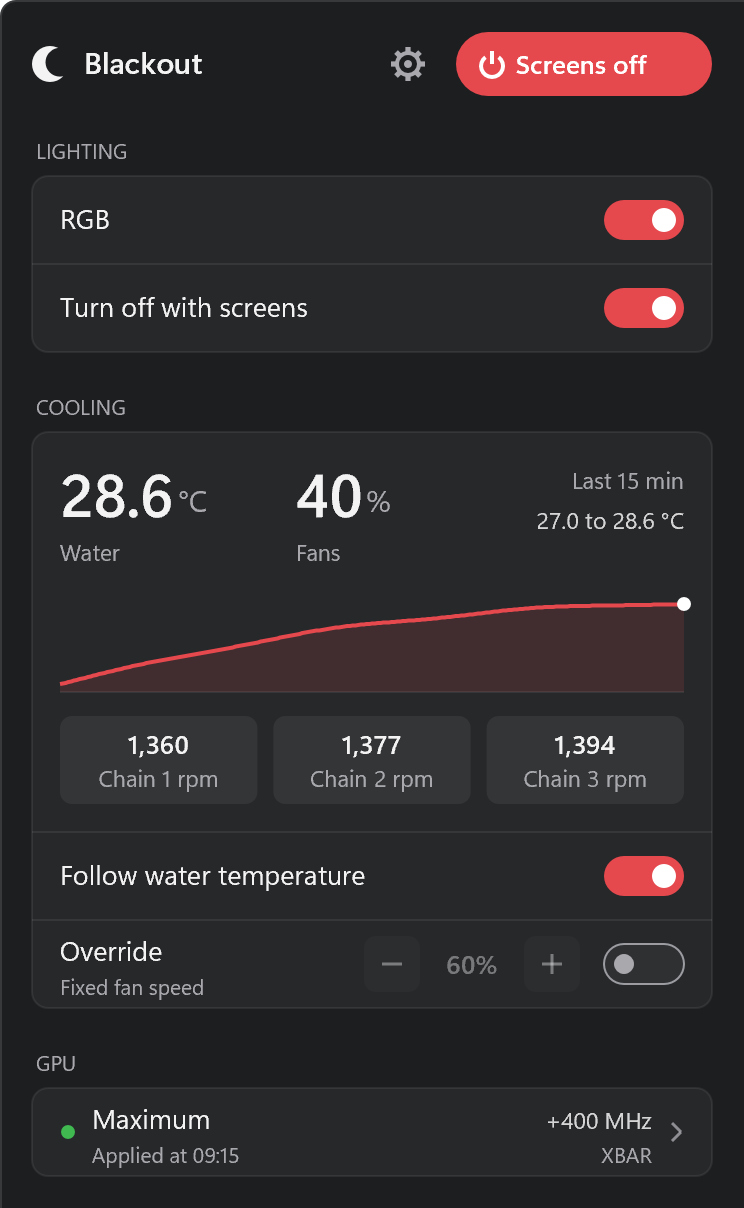
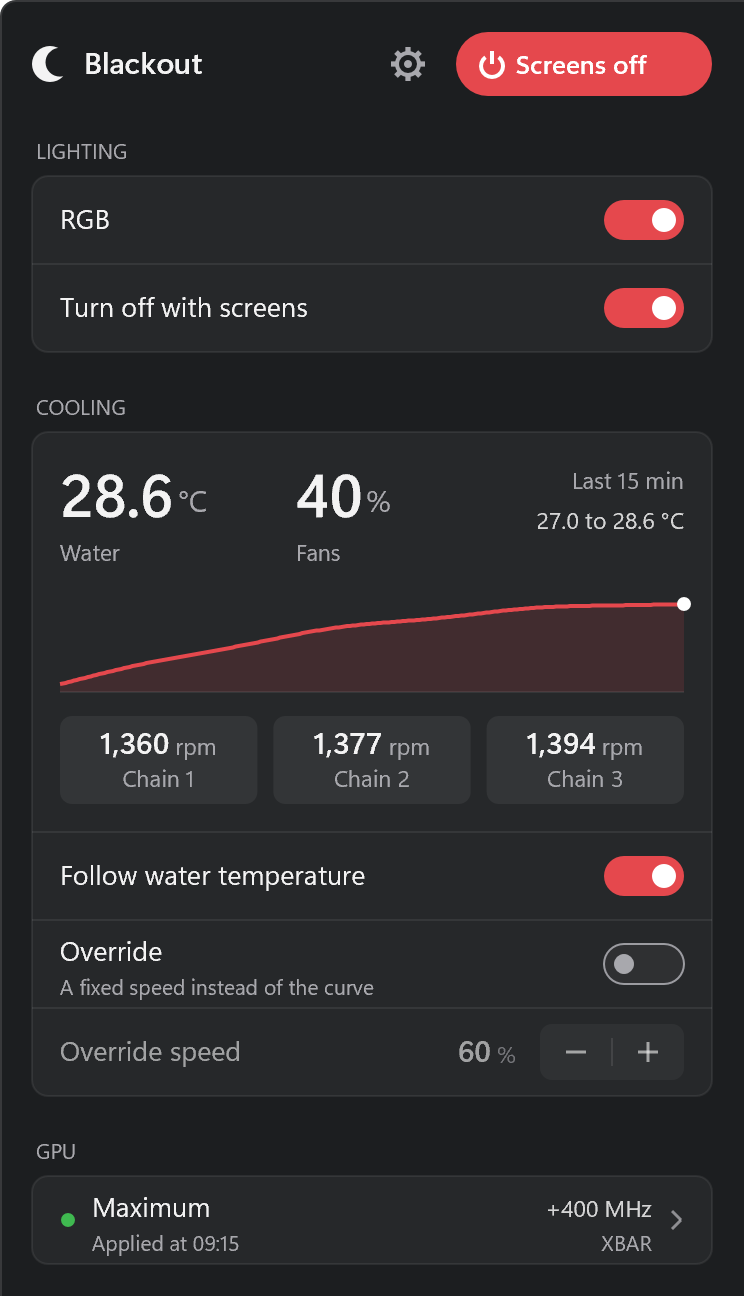
Steppers: one joined minus/plus control, the value typeset with its label
Value, unit and label are set together and the control sits apart from them:
under its chip on the GPU tab (three equal chips), at the end of the row on
the Fans tab and the main view (Override is two rows now).

diff --git a/src/panel.c b/src/panel.c
@@ -300,19 +300,21 @@ static void toggleRow(LPCWSTR label, LPCWSTR hint, float x, float y, float w, in
     if (hint) text(hint, F_TINY, rc(x + INSET, y + 26, w - 80, 14), dim(), a, DWRITE_TEXT_ALIGNMENT_LEADING);
     toggle(x + w - INSET - 40, y + 12, on, hover == id, enabled);
 }
-// One [-] or [+] of a stepper, 28 px square.
-static void stepButton(int id, float x, float y, BOOL plus, BOOL can, float a) {
-    D2D1_RECT_F r = rc(x, y, 28, 28);
-    if (can) hit[id] = r;
-    fillRound(r, 6, tone(), (!can ? 0.03f : hover == id ? 0.12f : 0.06f) * a);
-    line(x + 9, y + 14, x + 19, y + 14, ink(), (can ? 1 : 0.3f) * a, 1.5f);
-    if (plus) line(x + 14, y + 9, x + 14, y + 19, ink(), (can ? 1 : 0.3f) * a, 1.5f);
-}
-// [-] value [+] in a row at y, ending at right. a dims the whole control.
-static void stepper(LPCWSTR value, float right, float y, int down, int up, BOOL canDown, BOOL canUp, float a) {
-    stepButton(down, right - 108, y + 8, FALSE, canDown, a);
-    stepButton(up, right - 28, y + 8, TRUE, canUp, a);
-    text(value, F_BOLD, rc(right - 80, y + 13, 52, 18), ink(), a, DWRITE_TEXT_ALIGNMENT_CENTER);
+// A stepper's two buttons as one control, 28 px high: [ - | + ]. The value is never between them; it is shown with its
+// label, and this sits at the end of the row or under the chip. Each half is a target of at least 36 x 28.
+static void stepper(int down, int up, float x, float y, float w, BOOL canDown, BOOL canUp, float a) {
+    float half = w / 2;
+    fillRound(rc(x, y, w, 28), 6, tone(), 0.07f * a);
+    for (int i = 0; i < 2; i++) {
+        int id = i ? up : down;
+        BOOL can = i ? canUp : canDown;
+        float hx = x + i * half, cx = hx + half / 2;
+        if (can) hit[id] = rc(hx, y, half, 28);
+        if (can && hover == id) fillRound(rc(hx + 2, y + 2, half - 4, 24), 4, tone(), 0.10f * a);
+        line(cx - 5, y + 14, cx + 5, y + 14, ink(), (can ? 1 : 0.3f) * a, 1.5f);
+        if (i) line(cx, y + 9, cx, y + 19, ink(), (can ? 1 : 0.3f) * a, 1.5f);
+    }
+    line(x + half, y + 7, x + half, y + 21, tone(), 0.16f * a, 1);
 }
 // A button with a word on it, 28 px high. kind: 0 plain, 1 the main action of the view, 2 asks to confirm,
 // 3 quiet (small and dim: for what is rarely needed).
@@ -326,17 +328,30 @@ static void button(int id, LPCWSTR label, float x, float y, float w, int kind, B
     text(label, kind == 3 ? F_SMALL : F_BOLD, rc(x, y + (kind == 3 ? 6 : 5), w, 18), kind == 1 && can ? 0xFFFFFF : kind == 2 ? warn() : kind == 3 && !hot ? dim() : ink(),
          can ? 1 : 0.35f, DWRITE_TEXT_ALIGNMENT_CENTER);
 }
-// A reading: the value in bold over what it is. Fan speeds on Main, a profile's numbers on the GPU tab.
-static void chip(LPCWSTR value, LPCWSTR label, float x, float y, float w) {
+// A reading: the number with its unit small beside it, and what it is underneath. Fan speeds on Main, a profile's
+// numbers on the GPU tab. Numbers that are the point of a chip or a stepper row are set in F_BRAND, a size above
+// their labels, so the eye lands on the value first.
+static void chip(LPCWSTR value, LPCWSTR unit, LPCWSTR label, float x, float y, float w) {
+    float vw = measure(value, F_BRAND), uw = unit ? measure(unit, F_SMALL) + 3 : 0, at = x + (w - vw - uw) / 2;
     fillRound(rc(x, y, w, 44), 6, tone(), 0.06f);
-    text(value, F_BOLD, rc(x + 4, y + 5, w - 8, 18), ink(), 1, DWRITE_TEXT_ALIGNMENT_CENTER);
+    if (vw + uw > w - 8) {
+        text(value, F_BRAND, rc(x + 4, y + 3, w - 8, 20), ink(), 1, DWRITE_TEXT_ALIGNMENT_CENTER);
+    } else {
+        text(value, F_BRAND, rc(at, y + 3, vw + 2, 20), ink(), 1, DWRITE_TEXT_ALIGNMENT_LEADING);
+        if (unit) text(unit, F_SMALL, rc(at + vw + 3, y + 7, uw, 16), dim(), 1, DWRITE_TEXT_ALIGNMENT_LEADING);
+    }
     text(label, F_SMALL, rc(x + 4, y + 23, w - 8, 16), dim(), 1, DWRITE_TEXT_ALIGNMENT_CENTER);
 }
-// Label and hint on the left, [-] value [+] on the right.
-static void stepperRow(LPCWSTR label, LPCWSTR hint, LPCWSTR value, float x, float y, float w, int down, int up, BOOL canDown, BOOL canUp) {
-    text(label, F_ROW, rc(x + INSET, y + 6, w - 160, 22), ink(), 1, DWRITE_TEXT_ALIGNMENT_LEADING);
-    text(hint, F_TINY, rc(x + INSET, y + 26, w - 160, 14), dim(), 1, DWRITE_TEXT_ALIGNMENT_LEADING);
-    stepper(value, x + w - INSET, y, down, up, canDown, canUp, 1);
+// A setting that is stepped: label and hint on the left, then the value with its unit, then [ - | + ] at the end of
+// the row. One row holds one control. a dims the row.
+static void stepperRow(LPCWSTR label, LPCWSTR hint, LPCWSTR value, LPCWSTR unit, float x, float y, float w, int down, int up, BOOL canDown, BOOL canUp, float a) {
+    float px = x + w - INSET - 72, uw = measure(unit, F_SMALL), vw = measure(value, F_BRAND) + 2, vx = px - 12 - uw - 3 - vw;
+    float lw = vx - 10 - x - INSET;
+    text(label, F_ROW, rc(x + INSET, y + (hint ? 6 : 12), lw, 22), ink(), a, DWRITE_TEXT_ALIGNMENT_LEADING);
+    if (hint) text(hint, F_TINY, rc(x + INSET, y + 26, lw, 14), dim(), a, DWRITE_TEXT_ALIGNMENT_LEADING);
+    text(value, F_BRAND, rc(vx, y + 11, vw, 20), ink(), a, DWRITE_TEXT_ALIGNMENT_TRAILING);
+    text(unit, F_SMALL, rc(px - 12 - uw, y + 15, uw + 2, 16), dim(), a, DWRITE_TEXT_ALIGNMENT_LEADING);
+    stepper(down, up, px, y + 8, 72, canDown, canUp, a);
 }
 
 // ---- Layout ----
@@ -347,7 +362,7 @@ static int capped(int d) { return d > fanMax ? fanMax : d; }
 
 static float mainHeight(void) {
     float h = PAD + 32 + SECT + LABEL + 2 * ROW;
-    if (hasCurve) h += SECT + LABEL + INSET + 56 + GAP + 48 + GAP + 44 + INSET + 2 * ROW;
+    if (hasCurve) h += SECT + LABEL + INSET + 56 + GAP + 48 + GAP + 44 + INSET + 3 * ROW;
     else if (fanWhy >= 2) h += GAP + ROW; // notice: the fan curve is set up but can't run
     if (hasGpu()) h += SECT + LABEL + ROW;
     return h + PAD;
@@ -511,7 +526,7 @@ static void paintMain(float x, float y, float w) {
     y += SECT;
 
     section(L"COOLING", x, &y, w);
-    card(x, y, w, INSET + 56 + GAP + 48 + GAP + 44 + INSET + 2 * ROW);
+    card(x, y, w, INSET + 56 + GAP + 48 + GAP + 44 + INSET + 3 * ROW);
     float cy = y + INSET;
     // Two big readings on the left, the graph's range on the right.
     if (coolant < 0) lstrcpyW(s, L"--");
@@ -569,9 +584,7 @@ static void paintMain(float x, float y, float w) {
         else if (fanRpm[i] > 0 && fanRpm[i] < 1000) wsprintfW(rpm, L"%d", fanRpm[i]);
         else lstrcpyW(rpm, L"-");
         chainName(i, name);
-        wsprintfW(s, L"%s rpm", name);
-        // A long name keeps its own words: the number above it is plainly a speed.
-        chip(rpm, measure(s, F_SMALL) > cw - 8 ? name : s, ix + i * (cw + 8), cy, cw);
+        chip(rpm, rpm[0] == L'-' ? NULL : L"rpm", name, ix + i * (cw + 8), cy, cw);
     }
     cy += 44 + INSET;
     divider(x, cy, w);
@@ -579,19 +592,13 @@ static void paintMain(float x, float y, float w) {
     // Override: a fixed speed instead of the curve. Works while the curve is on; the speed can be set before switching on.
     cy += ROW;
     divider(x, cy, w);
-    float a = curveOn ? 1 : 0.4f, right = x + w - INSET - 40 - GAP;
-    if (curveOn) {
-        hit[H_OVR] = rc(x, cy, w, ROW);
-        hoverFill(H_OVR, hit[H_OVR]);
-    }
-    text(L"Override", F_ROW, rc(ix, cy + 6, right - 108 - ix - 8, 22), ink(), a, DWRITE_TEXT_ALIGNMENT_LEADING);
-    text(ov == 2 ? L"Paused while hot" : L"Fixed fan speed", F_TINY, rc(ix, cy + 26, right - 108 - ix - 8, 14), ov == 2 ? warn() : dim(), a,
-         DWRITE_TEXT_ALIGNMENT_LEADING);
-    wsprintfW(s, L"%d%%", ovDuty);
-    stepper(s, right, cy, H_OVR_DN, H_OVR_UP, curveOn && ovDuty > 20, curveOn && ovDuty < 100, ovOn && curveOn ? 1 : 0.4f);
-    // A button at the end of the range still takes the click, so it never falls through to the switch.
-    if (curveOn) hit[H_OVR_DN] = rc(right - 108, cy + 8, 28, 28), hit[H_OVR_UP] = rc(right - 28, cy + 8, 28, 28);
-    toggle(x + w - INSET - 40, cy + 12, ovOn, hover == H_OVR, curveOn);
+    toggleRow(L"Override", ov == 2 ? L"" : L"A fixed speed instead of the curve", x, cy, w, H_OVR, ovOn, curveOn);
+    if (ov == 2) text(L"Paused while hot", F_TINY, rc(ix, cy + 26, iw - 80, 14), warn(), 1, DWRITE_TEXT_ALIGNMENT_LEADING);
+    // Its speed on a row of its own: one row, one control.
+    cy += ROW;
+    divider(x, cy, w);
+    wsprintfW(s, L"%d", ovDuty);
+    stepperRow(L"Override speed", NULL, s, L"%", x, cy, w, H_OVR_DN, H_OVR_UP, curveOn && ovDuty > 20, curveOn && ovDuty < 100, !curveOn ? 0.4f : ovOn ? 1 : 0.6f);
     paintMainGpu(x, cy + ROW + SECT, w);
 }
 
@@ -663,12 +670,12 @@ static void paintFans(float x, float y, float w) {
          rc(ix, cy, iw, 18), dim(), 1, DWRITE_TEXT_ALIGNMENT_LEADING);
     cy += 18 + INSET;
     divider(x, cy, w);
-    wsprintfW(s, L"%d%%", fanMax);
-    stepperRow(L"Max fan speed", L"Upper limit for every fan", s, x, cy, w, H_MAX_DN, H_MAX_UP, fanMax > 30, fanMax < 100);
+    wsprintfW(s, L"%d", fanMax);
+    stepperRow(L"Max fan speed", L"Upper limit for every fan", s, L"%", x, cy, w, H_MAX_DN, H_MAX_UP, fanMax > 30, fanMax < 100, 1);
     cy += ROW;
     divider(x, cy, w);
-    wsprintfW(s, L"%d \x00B0" L"C", fanHyst);
-    stepperRow(L"Slow down after", srcDev ? L"It must be this much cooler first" : L"Water must be this much cooler first", s, x, cy, w, H_HYS_DN, H_HYS_UP, fanHyst > 0, fanHyst < 5);
+    wsprintfW(s, L"%d", fanHyst);
+    stepperRow(L"Slow down after", srcDev ? L"It must be this much cooler first" : L"Water must be this much cooler first", s, L"\x00B0" L"C", x, cy, w, H_HYS_DN, H_HYS_UP, fanHyst > 0, fanHyst < 5, 1);
     cy += ROW;
     divider(x, cy, w);
     BOOL edited = curveEdited();
@@ -878,9 +885,11 @@ static void paintGpu(float x, float y, float w) {
     if (keepArmed && !empty) button(H_GPU_KEEP, L"Replace it?", x + w - INSET - 106, y + 8, 106, 2, !gpuWait);
     else button(H_GPU_KEEP, L"Read from card", x + w - INSET - 106, y + 8, 106, empty ? 1 : 3, !gpuWait);
 
-    // The chips under the chart: the profile's power limit and memory offset, and the XBAR stepper.
+    // Under the chart: three equal chips (power limit, memory offset, XBAR offset), and under a chip that can be
+    // stepped its [ - | + ]. Today that is XBAR, with a note beside it on why only this one has buttons; the other
+    // two take the same control under their chips when they become adjustable.
     int chips = (empty ? 0 : 2) + (xbarCount > 0);
-    float chipsY = bottom - ROW - INSET - 44, xw = 132, pw3 = xbarCount ? 76 : (iw - 8) / 2, mw = xbarCount ? iw - 16 - xw - pw3 : pw3;
+    float cw = xbarCount ? (iw - 16) / 3 : (iw - 8) / 2, chipsY = bottom - ROW - INSET - 44 - (xbarCount ? 34 : 0);
     D2D1_RECT_F g = rc(ix + 30, y + 46, iw - 30 - 14, (chips ? chipsY - GAP : bottom - ROW - INSET) - 18 - (y + 46));
 
     // The curve: MHz over volts, this profile over the card's own curve. The scale follows what is drawn.
@@ -957,17 +966,17 @@ static void paintGpu(float x, float y, float w) {
     if (!empty) {
         if (viewPower) wsprintfW(s, L"%d", viewPower / 1000);
         else lstrcpyW(s, L"-");
-        chip(s, L"Power %", ix, chipsY, pw3);
+        chip(s, viewPower ? L"%" : NULL, L"Power limit", ix, chipsY, cw);
         wsprintfW(s, viewMemory > 0 ? L"+%d" : L"%d", viewMemory / 1000);
-        chip(s, L"Memory MHz", ix + pw3 + 8, chipsY, mw);
+        chip(s, L"MHz", L"Memory offset", ix + cw + 8, chipsY, cw);
     }
     if (xbarCount) {
-        // The XBAR stepper as a chip. It belongs to the card, not to a profile, and is sent a moment after the last step.
-        float cx = ix + iw - xw, mid = cx + xw / 2;
+        // XBAR belongs to the card, not to a profile, and is sent a moment after the last step.
+        float cx = ix + 2 * (cw + 8);
         wsprintfW(s, mhz ? L"+%d" : L"%d", mhz);
-        chip(s, L"XBAR MHz", cx, chipsY, xw);
-        stepButton(H_XBAR_DN, mid - 62, chipsY + 8, FALSE, at > 0 && !gpuWait, 1);
-        stepButton(H_XBAR_UP, mid + 34, chipsY + 8, TRUE, at < xbarCount - 1 && !gpuWait, 1);
+        chip(s, L"MHz", L"XBAR offset", cx, chipsY, cw);
+        stepper(H_XBAR_DN, H_XBAR_UP, cx, chipsY + 50, cw, at > 0 && !gpuWait, at < xbarCount - 1 && !gpuWait, 1);
+        if (gpuProfiles) text(L"XBAR is kept across profiles", F_TINY, rc(ix + 2, chipsY + 57, 2 * cw, 14), dim(), 1, DWRITE_TEXT_ALIGNMENT_LEADING);
     }
 
     // What the driver said last time, and the button that sends this profile.
@@ -1612,7 +1621,7 @@ static BOOL panelShow(HWND owner) {
 //   --panel-bench                      open and close five times, never shown; log time and memory to %TEMP%
 // Flags: fans wake system gpu | light top | x2 | nofans notadmin noread curveoff atcap nohist override ovhot | hotkey wakes edited rgboff
 //        hover=<id> drag=<point> shade=<percent> grey=<percent>
-// Extremes: temp=<C x10> rpm=<n> max=<percent> names longnames board fanwhy=<2..6> longstatus longwakes
+// Extremes: temp=<C x10> rpm=<n> max=<percent> hyst=<C> ovduty=<percent> names longnames board fanwhy=<2..6> longstatus longwakes
 //           profiles=<0..5> slot=<n> longname power=<percent> mem=<MHz> xbar=<MHz> noxbar unsent nobase mismatch
 //           gpustate=<code> what=<0..2> xbarstate=<code> view=<n> busy reading armed keptfail naming | withgpu scale=<percent>
 
@@ -1712,7 +1721,8 @@ static int panelDev(LPWSTR cmd) {
     setPref(L"HotkeyMode", flag(cmd, L"hotkey")), setPref(L"WakeClick", 1), setPref(L"WakeEsc", 1), setPref(L"Edited", flag(cmd, L"edited"));
     coolant = flag(cmd, L"noread") ? -1 : (at = wcsstr(cmd, L"temp=")) ? _wtoi(at + 5) / 10.0 : wcsstr(cmd, L"--panel-shot") ? 28.6 : getDword(L"Coolant", 286) / 10.0;
     curveOn = !flag(cmd, L"curveoff");
-    ovOn = flag(cmd, L"override") || flag(cmd, L"ovhot"), ovDuty = 60;
+    ovOn = flag(cmd, L"override") || flag(cmd, L"ovhot"), ovDuty = (at = wcsstr(cmd, L"ovduty=")) ? _wtoi(at + 7) : 60;
+    if ((at = wcsstr(cmd, L"hyst="))) fanHyst = _wtoi(at + 5);
     if (hasCurve && coolant >= 0 && flag(cmd, L"ovhot")) {
         double top = 0;
         curvePeak(&top);

diff --git a/tools/panel_shots.py b/tools/panel_shots.py
@@ -62,7 +62,11 @@ STATES = {
     "x-main-gpu-long": "withgpu longname slot=2 gpustate=-104 what=1 fanwhy=4",
     "x-main-gpu-xbar": "withgpu profiles=0 nofans",
     "x-main-gpu-unsent": "withgpu profiles=1 noxbar unsent nofans",
+    "x-main-ov100": "withgpu profiles=2 override ovduty=100 temp=452 rpm=9990",
+    "x-main-ov20": "ovduty=20 light",
     "x-fans-cap": "fans max=60 temp=452 edited",
+    "x-fans-ends": "fans max=30 hyst=0 withgpu",
+    "x-fans-ends-hi": "fans max=100 hyst=5 board light hover=12",
     "x-fans-why4": "fans fanwhy=4",
     "x-fans-why6": "fans fanwhy=6",
     "x-wake-long": "wake hotkey longwakes",
@@ -75,6 +79,7 @@ STATES = {
     "x-gpu-3": "gpu profiles=3 longname slot=3 mem=0 power=104 xbar=0",
     "x-gpu-2": "gpu profiles=2 longname slot=2 xbar=500",
     "x-gpu-1": "gpu profiles=1 longname",
+    "x-gpu-wide": "gpu profiles=2 xbar=1000 mem=-1000 power=121 hover=30",
     "x-gpu-0": "gpu profiles=0",
     "x-gpu-0-noxbar": "gpu profiles=0 noxbar unsent",
     "x-gpu-noxbar": "gpu profiles=2 noxbar",

diff --git a/AGENTS.md b/AGENTS.md
@@ -59,9 +59,9 @@ State lives in `HKCU\Software\Blackout` (DWORDs): `RgbOn`, `Sync`, `FanCtl`, `Fa
   - **Rendering is on the CPU**: an `ID2D1DCRenderTarget` (software, premultiplied alpha) draws into a 32-bit DIB that goes to the window with `UpdateLayeredWindow`. Redraws are requested with `panelDirty()` (one posted `WM_RENDER`, requests collapse). Measured with `--panel-bench`: 11 to 19 ms to open and about 18 MB while open, against 90 to 400 ms and 60 to 70 MB for a GPU `HwndRenderTarget`, which loads the graphics driver into the process. d2d1.dll and dwrite.dll are loaded on open and freed on close; about 5 MB of commit and 36 handles stay behind after the first open (working set returns to under 1 MB). Do not switch back to a GPU target.
   - **What it is for (check every panel change against this):** one glance says what the PC is doing (screens, lighting, cooling, GPU overclock) and one click changes it. Pictures and placed numbers before words: charts for settings, big numerals only for live readings. Everything that can be set is set here, nothing needs a command line. It never polls or reads hardware because it is open. Nothing risky is sent by a slip: a profile is shown first and sent on Apply, and the panel always says what the driver answered.
   - **Views:** Main, and Settings with tabs Fans, Wake, GPU, System. Every Settings tab is `SET_H` (520) high so the tabs never move under the cursor; the window only resizes between Main and Settings when their heights differ. Cards run to the bottom of the tab and their charts take the height that is left. The Fans tab is hidden when no `[fans]` is configured (`fanWhy` 1); a configured but broken fan curve shows a notice on Main, and on the tab the reason over the configured curve drawn grey. The GPU tab is offered when `[gpu]` sets it up or `nvapi64.dll` exists (`gpuOffered()`), so the first profile can be made from the panel.
-  - **Layout grid:** 16 outer padding, 14 inside cards, 12 between blocks, 18 between sections, 44 rows. Colours come from `ink()`, `dim()`, `tone()`, `warn()`, `knob()`, so both themes work (`SystemUsesLightTheme`). Shared parts: `toggleRow`, `stepper` (28 px buttons), `button` (plain, main action, confirm, quiet), `chip` (bold value over a small label with the unit), status as dot + title + reason. Red (`ACCENT`) means on: a switch, the profile on the card, the one main action of a view; a curve that is not running is not red. Every text format ends in an ellipsis when it does not fit (`SetTrimming`), so give text the full width it may use.
+  - **Layout grid:** 16 outer padding, 14 inside cards, 12 between blocks, 18 between sections, 44 rows. Colours come from `ink()`, `dim()`, `tone()`, `warn()`, `knob()`, so both themes work (`SystemUsesLightTheme`). Shared parts: `toggleRow`, `stepper`, `stepperRow`, `button` (plain, main action, confirm, quiet), `chip`, status as dot + title + reason. A value is always typeset the same way: the number in `F_BRAND` (a size above its label, so the eye lands on it), its unit small and dim beside it (`40 %`, `2 °C`, `+400 MHz`, `1,360 rpm`), and the name under it (chip) or left of it (row). A stepper is one joined `[ - | + ]` control, 28 px high, each half at least 36 px wide. The value is never between the two halves: the control sits at the end of a `stepperRow`, after the value, or under the chip it changes. One row holds one control (the Override switch and the Override speed are two rows). Red (`ACCENT`) means on: a switch, the profile on the card, the one main action of a view; a curve that is not running is not red. Every text format ends in an ellipsis when it does not fit (`SetTrimming`), so give text the full width it may use.
   - **Fans tab:** points drag within their neighbours and 20..`max`; double-click on the chart adds a point (up to `MAX_CURVE`), right-click removes one (two always stay). On release the curve goes to `HKCU\Software\Blackout\Curve` (REG_SZ) and is applied at once. Steppers write `FanMax` and `Hysteresis`. All three override the ini; Reset deletes them.
-  - **GPU tab:** pills show a profile (`gpuShown`, panel state only); nothing is sent until Apply, which writes `GpuProfile` and starts `TIMER_GPU`. Red pill and red curve = the active profile and the last send succeeded (`gpuStatus()` = 2). The chart draws `gpuBase`/`gpuVolt` (the card's curve, known after a send or a read) and the profile's offsets from the ini (`gpuView`, one profile cached); its scale follows the data. Chips: power, memory, and the XBAR stepper (sent 700 ms after the last step). **Read from card** runs `gpuRead()` on the worker thread (`TIMER_KEEP`, job `GPU_KEEP + N`), the only hardware read the panel can cause, and asks again before replacing a profile; `+` is the next empty profile. Clicking the name edits it (`naming`, `WM_CHAR`; `TranslateMessage` is only called while naming). While a job is queued or running `gpuWait` is set and the tab says so. Later editing has its home here: the power and memory chips take the same stepper as XBAR (as three 44 px rows if they do not fit side by side), and the marker on the curve becomes a drag handle like the Fans chart's.
+  - **GPU tab:** pills show a profile (`gpuShown`, panel state only); nothing is sent until Apply, which writes `GpuProfile` and starts `TIMER_GPU`. Red pill and red curve = the active profile and the last send succeeded (`gpuStatus()` = 2). The chart draws `gpuBase`/`gpuVolt` (the card's curve, known after a send or a read) and the profile's offsets from the ini (`gpuView`, one profile cached); its scale follows the data. Under the chart: three equal chips (power limit, memory offset, XBAR offset). XBAR, the one that can be stepped, has its `[ - | + ]` under its chip (sent 700 ms after the last step), with a short note beside it while it is the only one. **Read from card** runs `gpuRead()` on the worker thread (`TIMER_KEEP`, job `GPU_KEEP + N`), the only hardware read the panel can cause, and asks again before replacing a profile; `+` is the next empty profile. Clicking the name edits it (`naming`, `WM_CHAR`; `TranslateMessage` is only called while naming). While a job is queued or running `gpuWait` is set and the tab says so. Later editing has its home here: the power and memory chips get the same `[ - | + ]` under them (the three columns are already equal, so nothing moves and the note goes), and the marker on the curve becomes a drag handle like the Fans chart's.
   - **System tab:** status rows from `fanWhy`, `coolant`, `linkOk`, `hasOpenRgb`, `hasRam`, `ddcIds`, `isElevated()`, `gpuStatus()`. The fan row shows only the cause (the text before the colon in `fanWhyText()`).
   - **Wake tab:** each log row is drawn from the cause string: an icon from its first letter (mouse, keyboard, none), the device name, and the bracketed remark right-aligned so "not blocked" is never the part that is cut.
   - RPM is read only while the panel is open. History: 225 coolant samples (15 min, C x100).

diff --git a/README.md b/README.md
@@ -68,7 +68,7 @@ One temperature drives up to 7 fans along a curve you draw in the panel. The usu
 
 Edit the curve in the panel (Settings > Fans): drag a point, double-click the chart to add one, right-click a point to remove it, and set max fan speed and the slow-down margin. Changes apply at once and are kept in `HKCU\Software\Blackout` (`Curve`, `FanMax`, `Hysteresis`), which override the ini. **Reset to blackout.ini** drops them.
 
-**Override** (panel main view, or the tray menu) runs the fans at one fixed speed, 20 to 100%, instead of the curve. It pauses while the temperature is above the point where the curve reaches its top, and comes back once it is 2 C below that.
+**Override** (panel main view, or the tray menu) runs the fans at one fixed speed, 20 to 100%, instead of the curve. **Override speed** under it sets that speed, also before the override is switched on. It pauses while the temperature is above the point where the curve reaches its top, and comes back once it is 2 C below that.
 
 Fans go up straight away and come down after the hysteresis. Motherboard fans go back to the BIOS curve when the temperature reading is lost for 20 s, on exit, sleep and shutdown, and when the curve is switched off. Set a sensible fixed speed or curve in the BIOS: it is what runs whenever Blackout does not.
 
@@ -144,7 +144,7 @@ On a PC with an NVIDIA driver the panel's Settings have a **GPU** tab:
 - **Profiles** along the top. Clicking one only shows it: its clock curve over the card's own curve (the grey line), the top of the curve with the lowest voltage that reaches it, the power limit in % and the memory offset in MHz. **Apply** sends it. Red marks the profile that is on the card.
 - **Read from card** keeps what the card is running now as the profile on show, so an overclock you have tuned and tested in any app becomes a Blackout profile with one click. **+** is the next empty profile. A profile that exists asks before it is replaced.
 - Click a profile's name to change it.
-- **XBAR**: step through the `xbar` values from `blackout.ini`. Sent a moment after the last step.
+- **XBAR offset**: the minus and plus under it step through the `xbar` values from `blackout.ini`. Sent a moment after the last step, and kept when you change profile.
 - The line at the bottom says what the driver answered. The Main view and the tray tooltip repeat it.
 
 Nothing is read from the card while the panel is open; **Read from card** reads it once.

diff --git a/docs/gpu.md b/docs/gpu.md
@@ -30,7 +30,7 @@ The same from a command line: `blackout.exe --gpu-save 1` (to `5`), then restart
 - A profile pill only shows that profile. **Apply** sends it and makes it the one that is sent again after a restart or a driver reset.
 - Red means on the card: the pill, and the curve. A profile that is only being looked at is drawn without colour.
 - The chart is the profile's clock curve (MHz over volts) over the card's own curve in grey. The marker is the top of the curve at the lowest voltage that reaches it. The card's own curve is known once a profile has been sent or read.
-- Under the chart: power limit in % of the card's default, memory offset in MHz, and the XBAR stepper.
+- Under the chart: power limit in % of the card's default, memory offset in MHz and XBAR offset in MHz. XBAR has a minus and plus under it; it belongs to the card, so it stays the same when you change profile.
 - The bottom line is what the driver answered: `Applied at 09:15`, or `Not applied` with the reason, for example `Memory offset refused (-104)`.
 
 ```ini
